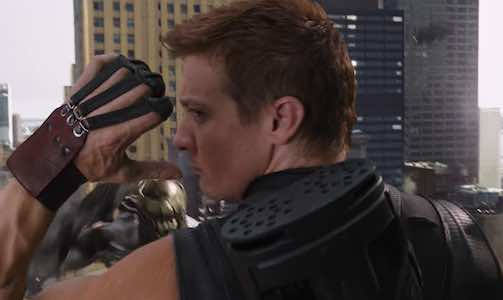
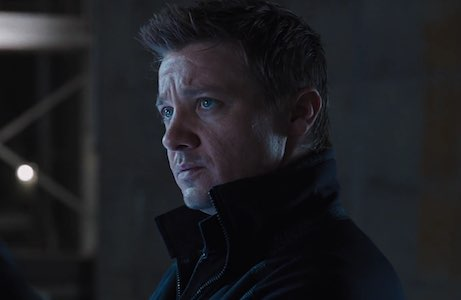
Name alias headshots folder appropriately. Alter all links accordingly. Replace the poorer of the images.

diff --git a/src/app/templates/meta-detail.component.html b/src/app/templates/meta-detail.component.html
@@ -8,7 +8,7 @@
       ontouchstart="this.classList.toggle('hover');">
 
       <div class="flipper">
-        <img class="front" src = '{{clicked.headshotMeta}}' alt = '{{clicked.name}} Symbol' >
+        <img class="front" src = '{{clicked.headshotAlias}}' alt = '{{clicked.name}} Symbol' >
         <br><br>
         <div id="back-div" class="back alias">
           <img src = '{{clicked.headshot}}' alt = '{{clicked.name}} Symbol' >
